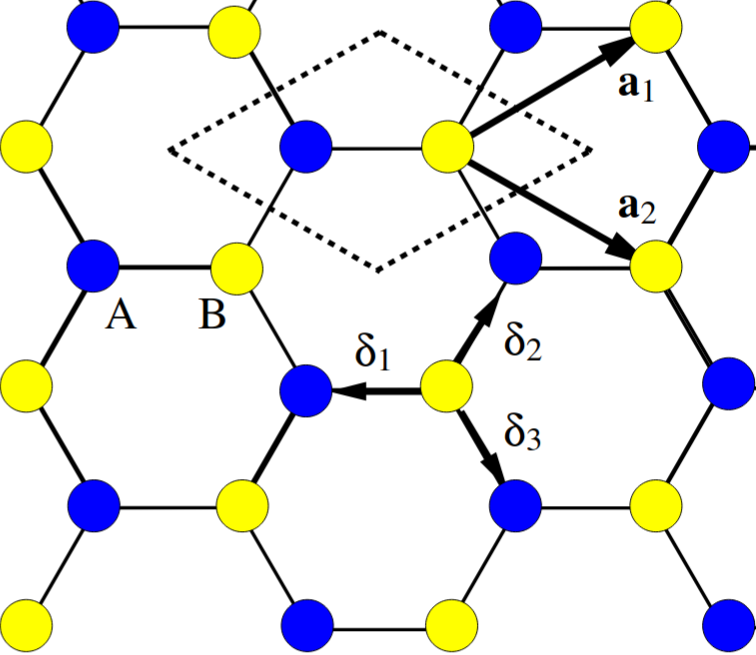
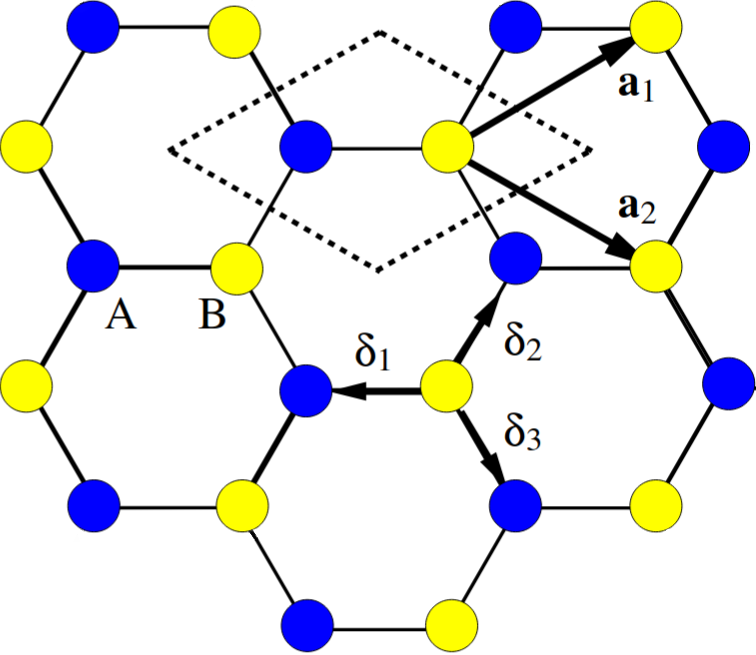
changes

diff --git a/Folien/presentation/content/02_Hauptteil.tex b/Folien/presentation/content/02_Hauptteil.tex
@@ -1,1 +1,289 @@
 \section{ Hauptteil }
+
+\begin{frame}[plain]
+    \centering
+    \Large
+    \textbf{Herleitung Selbstkonsistenzgleichung}
+    \vspace{1cm}
+    \begin{itemize}
+        \item Ziel: Bestimmung von Energielücke $\Delta$ der supraleitender Phase
+        \item Verwende dazu Mean-Field-Näherung und dessen Selbstkonsistenzgleichung
+    \end{itemize}
+\end{frame}
+
+
+\begin{frame}
+    \frametitle{Das Modell}
+    \begin{itemize}
+        \item Hamiltonian
+        \begin{align*}
+            \oH = \oH_{\text{TB}} + \oH_{\mu} + \oHWW
+        \end{align*}
+        \begin{align*}
+            \oH_{\text{TB}} &= -t \sum_{\vec{R}, \vdelta, \sigma} \oad{\vec{R}, \sigma} \ob{\vec{R}+\vdelta, \sigma} + \hc &
+            \oH_\mu &= - \mu \sum_{\vec{R}, \sigma} \sum_C \op{C}^{\dagg}_{\vec{R}, \sigma} \op{C}^{\pdagg}_{\vec{R}, \sigma} \\
+            \oHWW &=  - \frac{U}{N} \sump{\vk, \vk'} \sum_\oC  \ocdu \ocdd \ocndd \ocndu 
+        \end{align*}
+        \item Schreibweise $\sum_{\vk}' = \sum_{\vk} \Theta(\hbar \omega_D - \abs{\epsilon_\vk - E_F})$
+        \begin{itemize}
+            \item[$\rightarrow$] Setze $E_F = 0$ damit das chemische Potential $\mu$ eine Verschiebung von $E_F$ beschreibt
+        \end{itemize}
+        \item $\sum_\oC  = $ Summe über Operatoren beider Untergitter
+    \end{itemize}
+\end{frame}
+
+\begin{frame}
+    \frametitle{Fourier-Trafo}
+    \begin{itemize}
+        \item Fourier-Trafo der Operatoren
+        \begin{align*}
+            \oc{\vec{R}} &= \frac{1}{\sqrt{N}} \sum_{\vk} \oc{\vk} e^{\im \vk \cdot \vec{R}}  & \ocd{\vec{R}} &= \frac{1}{\sqrt{N}} \sum_{\vk} \ocd{\vk} e^{-\im \vk \cdot \vec{R}}
+        \end{align*}
+        \item Damit lauten $\oH_\text{TB}$ und $\oH_\mu$ im Impulsraum
+        \begin{align*}
+            \oHTB &= \sum_{\vk, \sigma} f(\vk) \oakd \obk + \hc & \oH_\mu = - \mu \sum_{\vk, \sigma} \sum_\oC \ocd{\vk, \sigma} \oc{\vk, \sigma} 
+        \end{align*}
+        \item Es gilt $f(\vk) = -t \sum_{\vdelta} e^{\im \vk \cdot \vdelta} = -t \left(e^{(-\im k_x a)} + 2 \, e^{(\im k_x \frac{a}{2})} \cos\left(\frac{k_y a \sqrt{3}}{2}\right)\right)$
+
+    \end{itemize}
+\end{frame}
+
+\begin{frame}
+    \frametitle{Mean-Field-Näherung (1)}
+    \begin{itemize}
+        \item Gesamthamiltonian
+        \begin{align*}
+            \oH = \sum_{\vk, \sigma} \left(f(\vk) \oakd \obk + \hc - \mu \sum_\oC \ocd{\vk, \sigma} \oc{\vk, \sigma}\right) - \frac{U}{N} \sump{\vk, \vk'} \sum_\oC  \ocdu \ocdd \ocndd \ocndu
+        \end{align*}
+        \item Probleme der Diagonalisierung durch Wechselwirkungsterm
+    \end{itemize}     
+    \begin{minipage}[t]{0.5\textwidth}
+        \begin{itemize}
+            \item Mean-Field-Näherung reduziert auf ein Ein-Teilchen-Problem 
+            \item Näherung gerechtfertigt, da bei Cooper-Paar-Kondensatbildung makroskopische Teilchenanzahl beteiligt $\rightarrow$ Fluktuationen vernachlässigbar
+        \end{itemize}
+    \end{minipage}
+    \begin{minipage}[t]{0.49\textwidth}
+        \begin{figure}[b]
+            \centering
+            \includegraphics[width=\textwidth]{images/MF.png}
+            \caption{Mean-Field-Näherung~\cite{bruus_manybody_2004}.}
+            % \label{<label>}
+        \end{figure}
+    \end{minipage}
+\end{frame}
+
+\begin{frame}
+    \frametitle{Mean-Field-Näherung (2)}
+    \begin{itemize}
+        \item Wick-Theorem
+        \begin{align*}
+            \ocdu \ocdd \ocndd \ocndu &= \, \only<1>{:\ocdu \ocdd \ocndd \ocndu:}\uncover<2->{\RedCancel{:\ocdu \ocdd \ocndd \ocndu:}}\\
+            &\only<1-2>{\begin{aligned}
+                &+ \expval{\ocdu \ocdd} \only<1>{:}\ocndd \ocndu\only<1>{:} + \expval{\ocndd \ocndu} \only<1>{:}\ocdu \ocdd\only<1>{:}\\
+                &- \expval{\ocdu \ocndd} \only<1>{:}\ocdd \ocndu\only<1>{:} - \expval{\ocdd \ocndu} \only<1>{:}\ocdu \ocndd\only<1>{:}\\
+                &+ \expval{\ocdu \ocndu} \only<1>{:}\ocdd \ocndd\only<1>{:} + \expval{\ocdd \ocndd} \only<1>{:}\ocdu \ocndu\only<1>{:}
+            \end{aligned}}\uncover<3->{\left.\begin{aligned}
+                &+ \expval{\ocdu \ocdd} \only<1>{:}\ocndd \ocndu\only<1>{:} + \expval{\ocndd \ocndu} \only<1>{:}\ocdu \ocdd\only<1>{:}\\
+                &- \only<4>\RedCancel{\expval{\ocdu \ocndd} \only<1>{:}\ocdd \ocndu\only<1>{:} - \expval{\ocdd \ocndu} \only<1>{:}\ocdu \ocndd\only<1>{:}}\\
+                &+ \expval{\ocdu \ocndu} \only<1>{:}\ocdd \ocndd\only<1>{:} + \expval{\ocdd \ocndd} \only<1>{:}\ocdu \ocndu\only<1>{:}
+            \end{aligned}\right\}\begin{aligned}
+                &\text{anomale Erwartungswerte}\\
+                &\text{Fock-Term}\\
+                &\text{Hartree-Term}
+            \end{aligned}}\\
+            &+ \only<1>{\text{const.}}\uncover<2->{\RedCancel{\text{const.}}}
+        \end{align*}
+    \item \uncover<2->{Mean-Field-Näherung: vernachlässige normalgeordneten quartischen Term}
+    \item \uncover<2->{Nutze $: \op{c}\op{c}: = \op{c}\op{c} - \expval{\op{c} \op{c}} = \op{c}\op{c} - \text{const.}$ und vernachlässige Konstante}
+    \item \uncover<4-> {Fock-Term verletzt Spinerhaltung $\rightarrow$ fällt weg}
+    \end{itemize}
+\end{frame}
+
+\begin{frame}
+    \frametitle{Mean-Fiel-Näherung -- Hartree-Term}
+    \begin{itemize}
+        \item Hartree-Term 
+        \begin{align*}
+            \expval{\ocdu \ocndu} \ocdd \ocndd + \expval{\ocdd \ocndd} \ocdu \ocndu
+        \end{align*}
+        \begin{itemize}
+            \pause
+            \item[$\rightarrow$] Impulserhaltung erzwingt $\vk = \vk'$ 
+        \end{itemize}
+        \pause
+        \item eingesetzt in Wechselwirkungsterm 
+        \begin{align*}
+            \oH_\text{Hartree} &= -\frac{U}{N} \sum_\oC \sump{\vk} \left[\expval{\ocd{\vk, \up} \oc{\vk, \up}} \ocd{-\vk, \down} \ocndd + \expval{\ocd{-\vk, \down} \ocndd} \ocd{\vk, \up} \ocndu\right]
+        \end{align*}
+        \begin{itemize}
+            \item[$\rightarrow$] skaliert nicht mit $N$, bleibt konstant bei $N \rightarrow \infty$
+            \item[$\rightarrow$] andere Terme skalieren linear mit $N$ $\implies$ Hartree-Term im Limes $N \rightarrow \infty$ vernachlässigbar
+        \end{itemize}
+    \end{itemize}
+\end{frame}
+
+\begin{frame}
+    \frametitle{Mean-Field-Näherung -- Cooper-Kanal}
+    \begin{itemize}
+        \item effektive Wechselwirkung damit nur Cooper-Kanal
+        \begin{align*}
+            \oHWWeff &= -\frac{U}{N} \sum_\oC \sump{\vk, \vk'}\left[\ocd{\vk, \up} \ocd{-\vk, \down} \expval{\oc{-\vk', \down} \oc{\vk', \up}} + \ocndd \ocndu \expval{\ocdu \ocdd}\right]
+        \end{align*}
+        \pause
+        \item Definition Ordnungsparameter
+        \begin{align*}
+            \Delta_\oC &= \frac{U}{N} \sump{\vec{k}'} \expval{\oc{-\vk, \down} \ocndu} &\Delta_{\oC}^{*} &= \frac{U}{N} \sump{\vec{k}'} \expval{\ocdup \ocddown}
+        \end{align*}
+        \pause
+        \begin{itemize}
+            \item[$\rightarrow$] bei Supraleitung makroskopische Anzahl an Cooper-Paaren $\implies$ anomale Erwartungswerte nicht null 
+            \item[$\rightarrow$] Bienenwabengitter hat Untergitter-Symmetrie $\implies$ $\Delta_\oA = \Delta_\oB$
+            \item[$\rightarrow$] $\Delta$ kann wegen Eichsymmetrie des Systems reell gewählt werden
+        \end{itemize}
+        \pause
+        \item damit effektive Wechselwirkung
+        \begin{align*}
+            \oHWWeff &= - \Delta \left(\sum_\oC \sump{\vk} \ocdup \ocddown + \hc\right)
+        \end{align*}
+    \end{itemize}
+\end{frame}
+
+% \begin{frame}
+%     \frametitle{Mean-Field-Näherung (3)}
+%     \begin{itemize}
+%         \item wegen Impulserhaltung fällt Hartree-Term nur für $\vk = \vk'$ nicht weg und ergibt 
+%         \begin{align*}
+%             \oH_\text{Hartree} &= -\frac{U}{N} \sum_\oC \sump{\vk} \left[\expval{\ocd{\vk, \up} \oc{\vk, \up}} \ocd{-\vk, \down} \ocndd + \expval{\ocd{-\vk, \down} \ocndd} \ocd{\vk, \up} \ocndu\right]
+%         \end{align*}
+%         \begin{itemize}
+%             \item[$\rightarrow$] skaliert nicht mit $N$ und ist im Limes $N \rightarrow \infty$ vernachlässigbar
+%         \end{itemize}
+%         \item Wechselwirkungsterm ist damit nur 
+%         \begin{align*}
+%             \oHWWeff &= - \sum_\oC \Delta_\oC \sump{\vk} \ocdup \ocddown + \hc
+%         \end{align*}
+%         \item Ordnungsparameter 
+%         \begin{align*}
+%             \Delta_\oC &= \frac{U}{N} \sump{\vec{k'}} \expval{\oc{-\vk, \down} \ocndu} & & \text{und} & \Delta_{\oC}^{*} &= \frac{U}{N} \sump{\vec{k'}} \expval{\ocdup, \ocddown}
+%         \end{align*}
+%     \end{itemize}
+% \end{frame}
+
+\begin{frame}
+    \frametitle{Matrixschreibweise (1)}
+    \begin{itemize}
+        \item Gesamthamiltonian 
+        \begin{align*}
+            \oHeff &= \sum_{\vk, \sigma} \left[\left(f(\vk) \oakd \obk +\hc\right) - \mu \left( \oakd \oak + \obkd \obk \right) \right]  \\
+            &- \Delta \sump{\vk} \left(\oadup \oaddown + \obdup \obddown + \hc \right) 
+        \end{align*}
+        \item Nambu-Spinore 
+        \begin{align*}
+            \vopsi &= \begin{pmatrix} \oadup \\  \obdup \\ \oadown \\ \obdown \end{pmatrix} & \vopsid = \begin{pmatrix} \oaup \, , & \obup\, , & \oaddown\, , & \obddown\end{pmatrix}
+        \end{align*}
+    \end{itemize}
+\end{frame}
+
+\begin{frame}
+    \frametitle{Matrixschreibweise (2)}
+    \begin{itemize}
+        \item Mit Nambu-Spinoren umgeschrieben ergibt sich 
+        \begin{align*}
+            \oHeff &= \sump{\vk} \vopsid \dul{h} \, \vopsi 
+        \end{align*}
+        \item Matrix $\dul{h}$
+        \begin{align*}
+            \dul{h} = \begin{pmatrix} \mu & -f^*(\vk) & \Delta & 0 \\ -f(\vk) & \mu & 0 & \Delta \\ \Delta & 0 & -\mu & f^*(\vk) \\ 0 & \Delta & f(\vk) & -\mu \end{pmatrix}
+        \end{align*}
+        % \begin{itemize}
+        %     \item[$\rightarrow$] Diagonalisieurng
+        % \end{itemize}
+    \end{itemize}
+\end{frame}
+
+\begin{frame}
+    \frametitle{Diagonalisierung }
+    \begin{itemize}
+        % \item Um Selbstkonsistenz von $\Delta$ auszunutzen müssen die anomalen Erwartungswerte bestimmt werden 
+        % \begin{itemize}
+        %     \item[$\rightarrow$] Hamiltonian muss diagonalisiert werden
+        % \end{itemize}
+        \item Mit passender unitärer Trafo $\dul{U}$ kann $\oHeff$ diagonalisiert werden 
+        \begin{align*}
+            \oHeff &= \sump{\vk} \vophid \dul{h}_\text{diag} \, \vophi & \text{mit} & & \vophi &= \dul{U}^\dagg \vopsi
+        \end{align*}
+        \item (thermodynamische) Erwartungswerte der Quasiteilchenoperatoren $\vophi$
+        \begin{align*}
+            % \expval{\ophid_{i} \ophi_{j}} = F(E_{i}) \delta_{ij} = \left(\frac{1}{e^{\beta E_i} + 1}\right)\delta_{ij}
+            \expval{\vophi \cdot \vophid}_{ij} = \expval{\ophi_{i} \ophid_{j}} &= \expval{1 -\ophid_{j}  \ophi_{i}} = (1 - F(E_i))\delta_{ij}
+        \end{align*}
+        \item Inverse Trafo liefert Erwartungswerte der Teilchenoperatoren $\vopsi$
+        \begin{align*}
+            \expval{\symbf{\Psi}^{\pdagg}_i \symbf{\Psi}^{\dagg}_j} = \expval{\opsi \cdot \opsid}_{ij} = \expval{\dul{U} \ophi \cdot \vophid \dul{U}^\dagger}_{ij} = \left(\dul{U} \expval{\ophi \cdot \vophid} \dul{U}^\dagg\right)_{ij}
+        \end{align*}
+    \end{itemize}
+\end{frame}
+
+\begin{frame}
+    \frametitle{Selbstkonsistenz -- allgemeiner Fall}
+    \begin{itemize}
+        \item Erinnerung Definition von $\Delta$
+        \begin{align*}
+            \Delta &= \frac{U}{N}\sump{\vk} \expval{\oadown \oaup}
+        \end{align*}
+        \begin{itemize}
+            \item[$\rightarrow$] Setze $\expval{\oadown \oaup}$ ein
+        \end{itemize}
+        \item Diagonalisierung liefert die Selbskonsistenzgeleichung 
+        \begin{align*}
+            \Delta &= \frac{U}{4N} \sump{\vk} \left[\frac{\Delta}{E_+} \tanh\left(\frac{\beta E_+}{2}\right) + \frac{\Delta}{E_-} \tanh\left(\frac{\beta E_-}{2}\right)\right]
+        \end{align*}
+        \begin{itemize}
+            \item[$\rightarrow$] Quasiteilchenenergien $E_\pm = \sqrt{(\epsilon_{\mp} - \mu)^2 + \Delta^2}$ mit Ein-Teilchen-Energien $\epsilon_\pm = \pm \abs{f(\vk)}$ 
+        \end{itemize}
+        \pause
+        \item Alternative Schreibweise über Zustandsdichte $\rho(\epsilon) = \frac{1}{N} \sum_{\vk} \delta(\epsilon - \epsilon_\vk)$
+        \begin{align*}
+            \Delta = \frac{U}{2} \int_{\mu -\hbar \omega_D}^{\mu + \hbar \omega_D} d\epsilon \, \rho(\epsilon) \frac{\Delta}{\sqrt{(\epsilon - \mu)^2 + \Delta^2}} \tanh\left(\frac{\beta \sqrt{(\epsilon - \mu)^2 + \Delta^2}}{2}\right)
+        \end{align*}
+        % \begin{itemize}
+        %     \item[$\rightarrow$] nun explizite Schreibweise des Cutoffs möglich
+        % \end{itemize}
+    \end{itemize}
+\end{frame}
+
+\begin{frame}
+    \frametitle{Selbstkonsistenz -- Spezialfall halber Füllung}
+    \begin{minipage}[t]{0.6\textwidth}
+        \begin{itemize}
+            \item Im Nächste-Nachbar-Tight-Binding-Modell ist das Bienenwabengitter bei $\mu = 0$ zur Hälfte gefüllt
+            \item Für die Selbstkonsistenz ergibt sich 
+            \begin{align*}
+                \Delta = \frac{U}{2N} \sump{\vk} \frac{\Delta}{E_\vk} \tanh\left(\frac{\beta E_\vk}{2}\right)
+            \end{align*}
+            \item In Integralform
+            \begin{align*}
+                \Delta = \frac{U}{2} \int_{-\hbar \omega_D}^{\hbar \omega_D} d\epsilon \, \rho(\epsilon) \frac{\Delta}{\sqrt{\Delta^2 + \epsilon^2}} \tanh\left(\frac{\beta \sqrt{\Delta^2 + \epsilon^2}}{2}\right)
+            \end{align*}
+            \begin{itemize}
+                \item[$\rightarrow$] Exakt das BCS Ergebnis für ein Band
+            \end{itemize}
+        \end{itemize}
+    \end{minipage}
+    \begin{minipage}[t]{0.39\textwidth}
+        \begin{figure}
+            \centering
+            \includegraphics[width=\textwidth]{images/DOS.png}
+            \caption{Zustandsdichte (DOS) Bienenwabengitter.}
+            % \label{<label>}
+        \end{figure}
+    \end{minipage}
+\end{frame}
+
+\begin{frame}[plain]
+    % \frametitle{Ergebnisse}
+    \centering
+    \Large
+    \textbf{Ergebnisse}
+\end{frame}

diff --git a/Folien/presentation/main.tex b/Folien/presentation/main.tex
@@ -29,6 +29,22 @@
 
 \usepackage[export]{adjustbox} % align figures
 
+
+% vv vec
+\usepackage[a]{esvect}
+% RedCancel
+\usepackage{xcolor}
+\usepackage{tikz}
+
+\newcommand{\RedCancel}[1]{%
+  \tikz[baseline=(X.base)]{
+    \node[inner sep=0pt, outer sep=0pt] (X) {$#1$};
+    \draw[red, line width=0.8pt]
+      ([yshift=0pt]X.west) --
+      ([yshift=0pt]X.east);
+  }%
+}
+
 % short commands
 \input{commands.tex}
 \newcommand{\dsq}{\phantom{}^2}
@@ -44,7 +60,7 @@
 %=======================
 % Bibliography:
 %=======================
-\usepackage[style=nature,doi=false,isbn=false,url=false,eprint=false,backend=bibtex]{biblatex}
+\usepackage[style=nature,doi=true,isbn=false,url=false,eprint=false,backend=bibtex]{biblatex}
 \setbeamertemplate{bibliography item}{\insertbiblabel}
 \addbibresource{lit.bib}
 \newcommand{\addtobibliography}{{\color{white}\cite{graes21,graes24,stark18,chave21,store14,david15}}} % engel74,alvar10c,marti23
@@ -122,5 +138,25 @@
 {
  \printbibliography
 }
-
+\backupframe{Back-Up}
+{
+  \frametitle{Backup-Folie \textendash{} Unitäre Matrix}
+    \begin{itemize}
+        \item Unitäre Matrix 
+        \begin{align*}
+            \dul{U} = \frac{1}{2} \begin{pmatrix}
+            -\frac{\Delta}{N_1} e^{-\im \varphi} \quad & -\frac{\Delta}{N_2} e^{-\im \varphi} \quad & -\frac{\Delta}{N_3} e^{-\im \varphi} \quad & -\frac{\Delta}{N_4} e^{-\im \varphi} \\[0.3em]
+            \frac{\Delta}{N_1} & \frac{\Delta}{N_2} & \frac{\Delta}{N_3} & \frac{\Delta}{N_4} \\[0.3em]
+            \left(\frac{-E_+ + \lambda_+}{N_1}\right)e^{-\im \varphi} \quad & \left(\frac{E_+ + \lambda_+}{N_2}\right)e^{-\im \varphi} \quad & \left(\frac{E_- - \lambda_-}{N_3}\right)e^{-\im \varphi} \quad & \left(\frac{-E_- - \lambda_-}{N_4}\right)e^{-\im \varphi} \\[0.3em]
+            \frac{E_+ - \lambda_+}{N_1} & \frac{-E_+ - \lambda_+}{N_2} & \frac{E_- - \lambda_-}{N_3} & \frac{-E_- - \lambda_-}{N_4}
+            \end{pmatrix}
+        \end{align*}
+        \item mit den folgenden Definitionen 
+        \begin{align*}
+            \lambda_\pm &= \mu \pm \abs{f(\vk)}, & E_\pm &= \sqrt{\lambda_{\pm}^2 + \Delta^2}, \\
+    N_{1,2} &= \sqrt{E_+(E_+ \mp \lambda_+)}, & N_{3,4} &= \sqrt{E_-(E_- \mp \lambda_-)} \, \\
+    \varphi &= \arg(f(\vk)) \, , & e^{-\im \varphi} &= \frac{f^*(\vk)}{\abs{f(\vk)}}
+        \end{align*}
+    \end{itemize}
+}
 \end{document}

diff --git a/Folien/presentation/content/01_Einleitung.tex b/Folien/presentation/content/01_Einleitung.tex
@@ -88,6 +88,7 @@
             \begin{itemize}
                 \item[$\rightarrow$] Bildung von Cooper-Paaren energetisch begünstigt
                 \item[$\rightarrow$] für $T<T_C$ makroskopischer Quantenzustand (Supraleitung)
+                \item[$\rightarrow$] Energielücke $2\abs{\Delta}$ im Anregungsspektrum des Systems ``schützt'' Kondensat
             \end{itemize}
         \item Beschreibung durch BCS-Hamiltonian 
         \begin{align*}
@@ -138,13 +139,18 @@
 \begin{frame}
     \frametitle{Bienenwabengitter -- Tight-Binding-Modell}
     \begin{itemize}
-        \item Beschreibung über Nächste-Nachbar Tight-Binding-Modell
+        \item Tight-Binding: Elektronen stark an Gitteratom gebunden
+        \begin{itemize}
+            \item[$\rightarrow$] können mit ``Hüpfwahrscheinlichkeit'' $t$ zu benachbartem Gitterplatz tunneln
+        \end{itemize}
+        \item Beschränkung auf Nächste-Nachbar-Tunneln 
         \begin{align*}
-            \oH_{\text{TB}} &= -t \sum_{\expval{\vec{R}, \vec{R}'}} \oad{\vec{R}} \ob{\vec{R}'} + \hc
+            \oH_{\text{TB}} &= -t \sum_{\vec{R}, \vdelta} \oad{\vec{R}} \ob{\vec{R}+\vdelta} + \hc
         \end{align*}
         \item $\oA_{\alpha}$ und $\oB_{\beta}$ erfüllen die Antikommutatorrelationen
         \begin{align*}
-            \anticommute{\oad{\alpha}, \oa{\beta}} &= \anticommute{\obd{\alpha}, \ob{\beta}} = \delta_{\alpha \beta} 
+            \anticommute{\oad{\alpha}}{\oa{\beta}} &= \anticommute{\obd{\alpha}}{\ob{\beta}} = \delta_{\alpha \beta} \\
+            \anticommute{\oad{\alpha}}{\oad{\beta}} = \anticommute{\obd{\alpha}}{\obd{\beta}} &= \anticommute{\oad{\alpha}}{\obd{\beta}} = \anticommute{\oad{\alpha}}{\ob{\beta}} = 0
         \end{align*}
     \end{itemize}
 \end{frame}

diff --git a/Folien/presentation/commands.tex b/Folien/presentation/commands.tex
@@ -96,6 +96,7 @@
 \newcommand{\oHZ}{\op{H}_{\Zee}}
 \newcommand{\oHeff}{\op{H}_{\eff}}
 \newcommand{\oHNN}{\op{H}_{\mathrm{NN}}}
+\newcommand{\oHTB}{\op{H}_{\mathrm{TB}}}
 \newcommand{\oHWW}{\op{H}_{\mathrm{WW}}}
 \newcommand{\oHWWeff}{\op{H}_{\mathrm{WW}}^{(\mathrm{eff})}}
 
@@ -203,6 +204,7 @@
 
 % Restricted Sum
 \def\sump#1{\sideset{}{'}\sum_{#1}}
+% \def\sump#1{\sum_{#1}'}
 % \def\sump#1{\sum_{#1}^{\prime}
 % \newcommand{\sumpk}{\sideset{}{'}\sum_{\vec{k}}}
 % \newcommand{\sumpk}{\sum_{\vec{k}}'}
